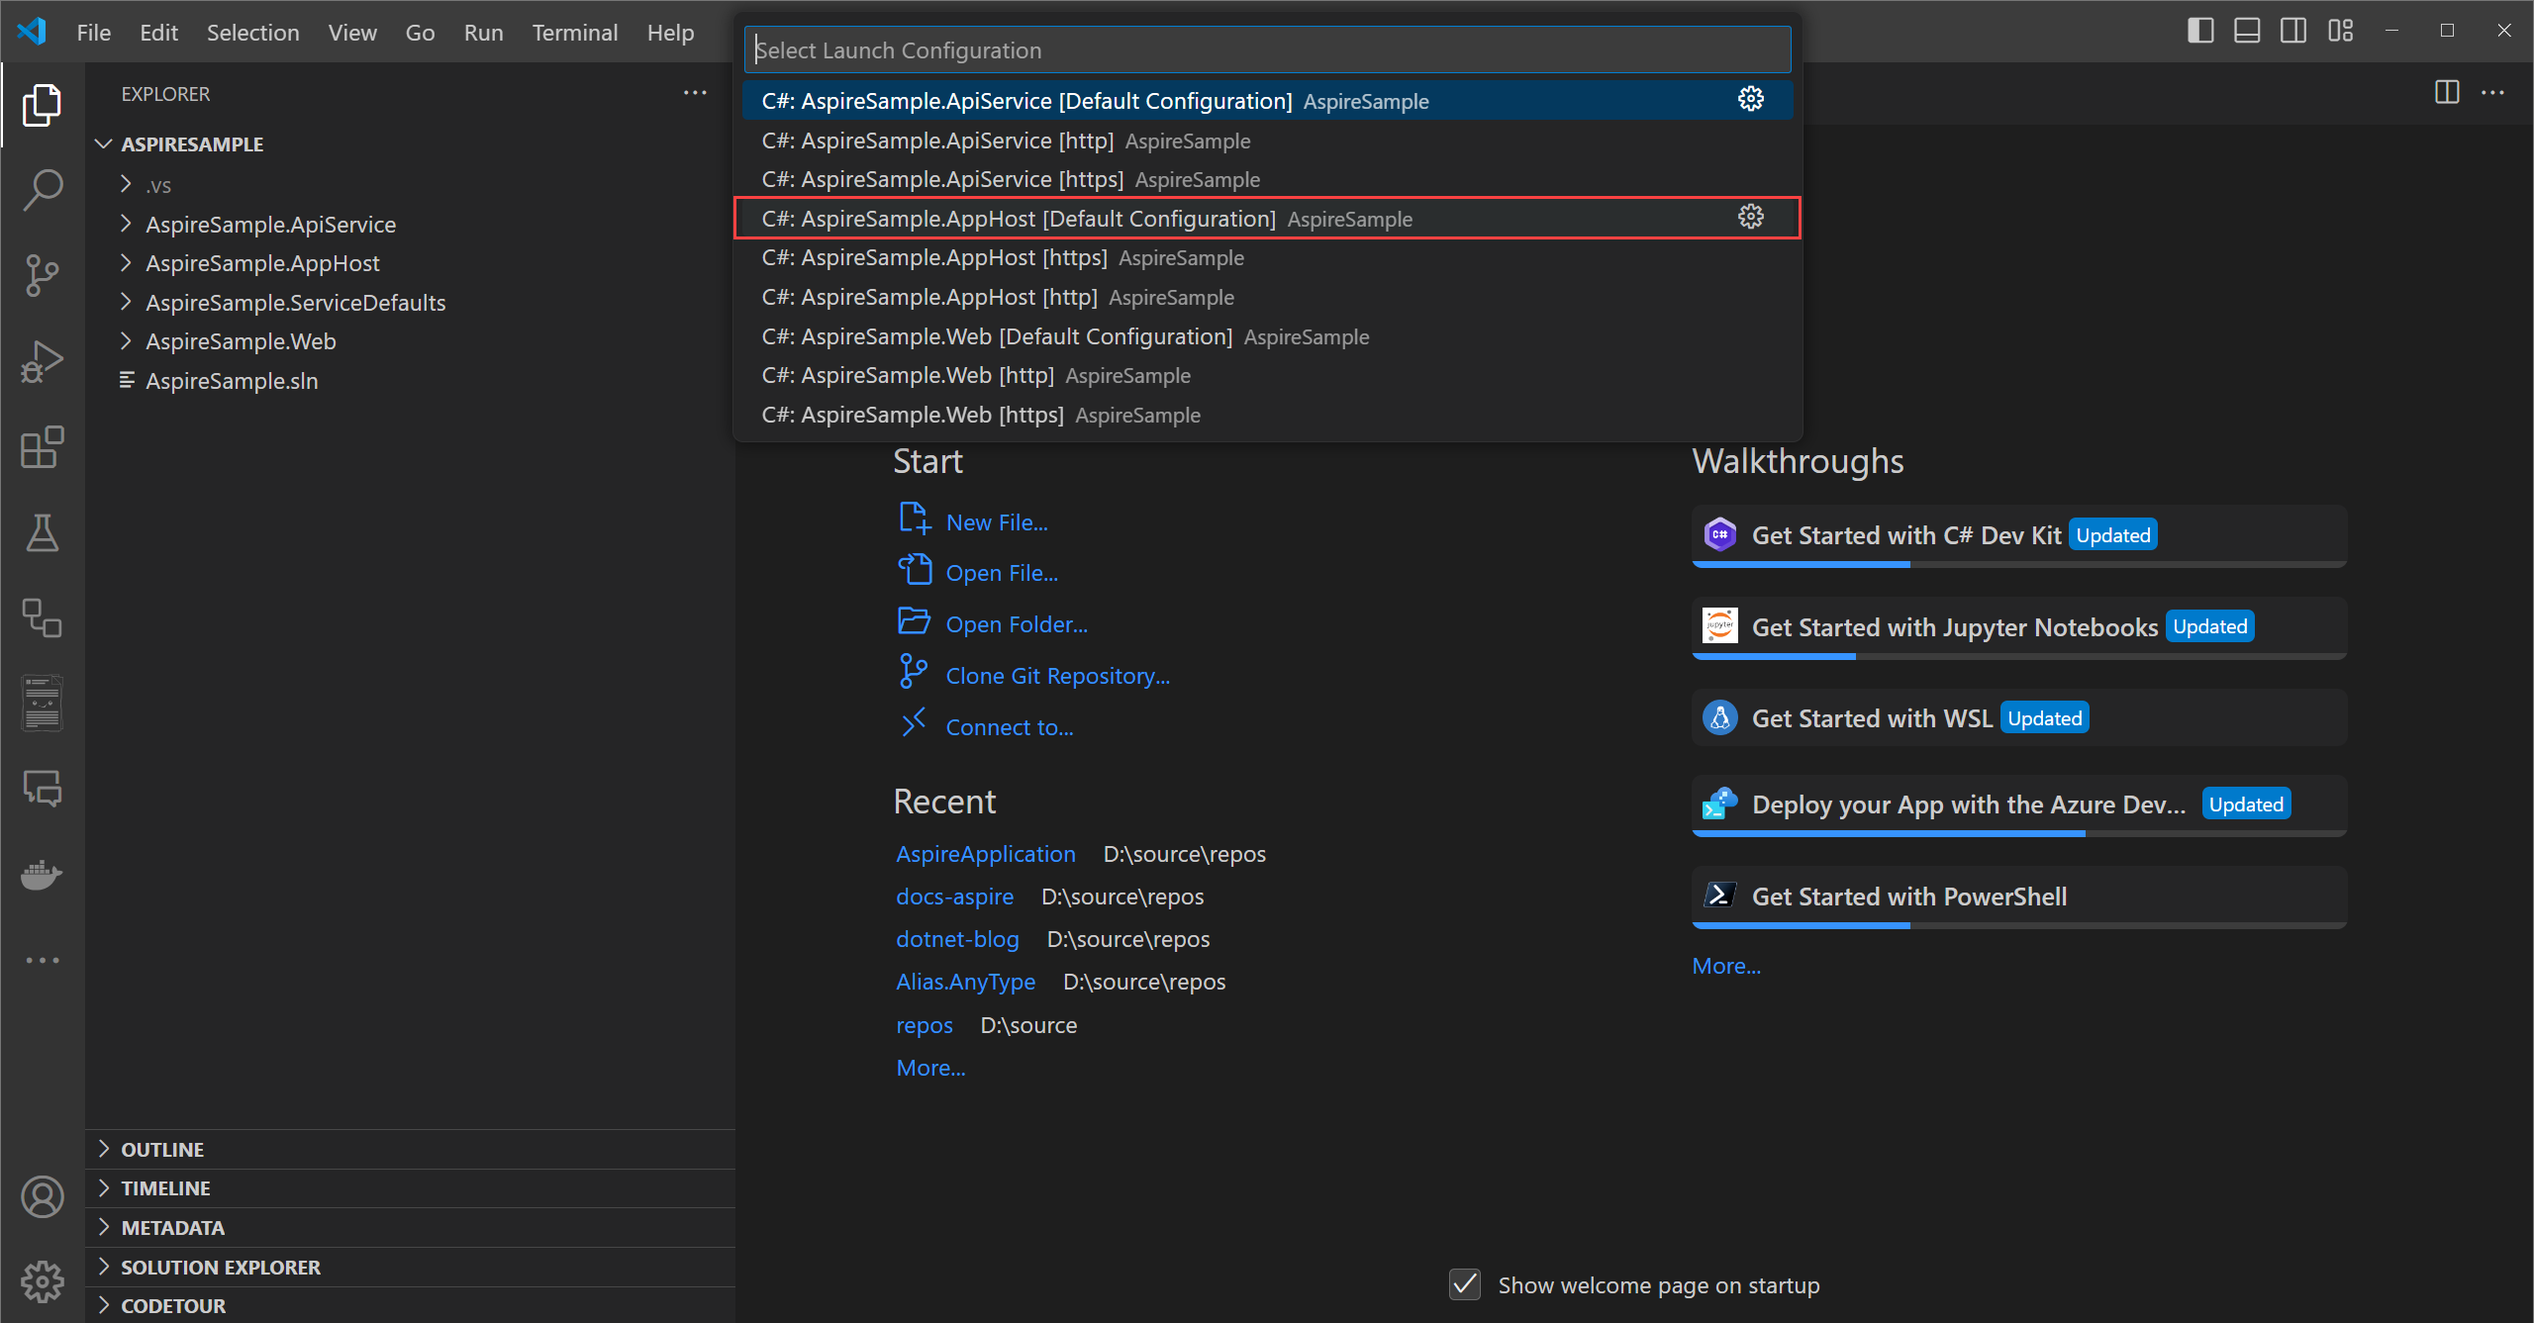
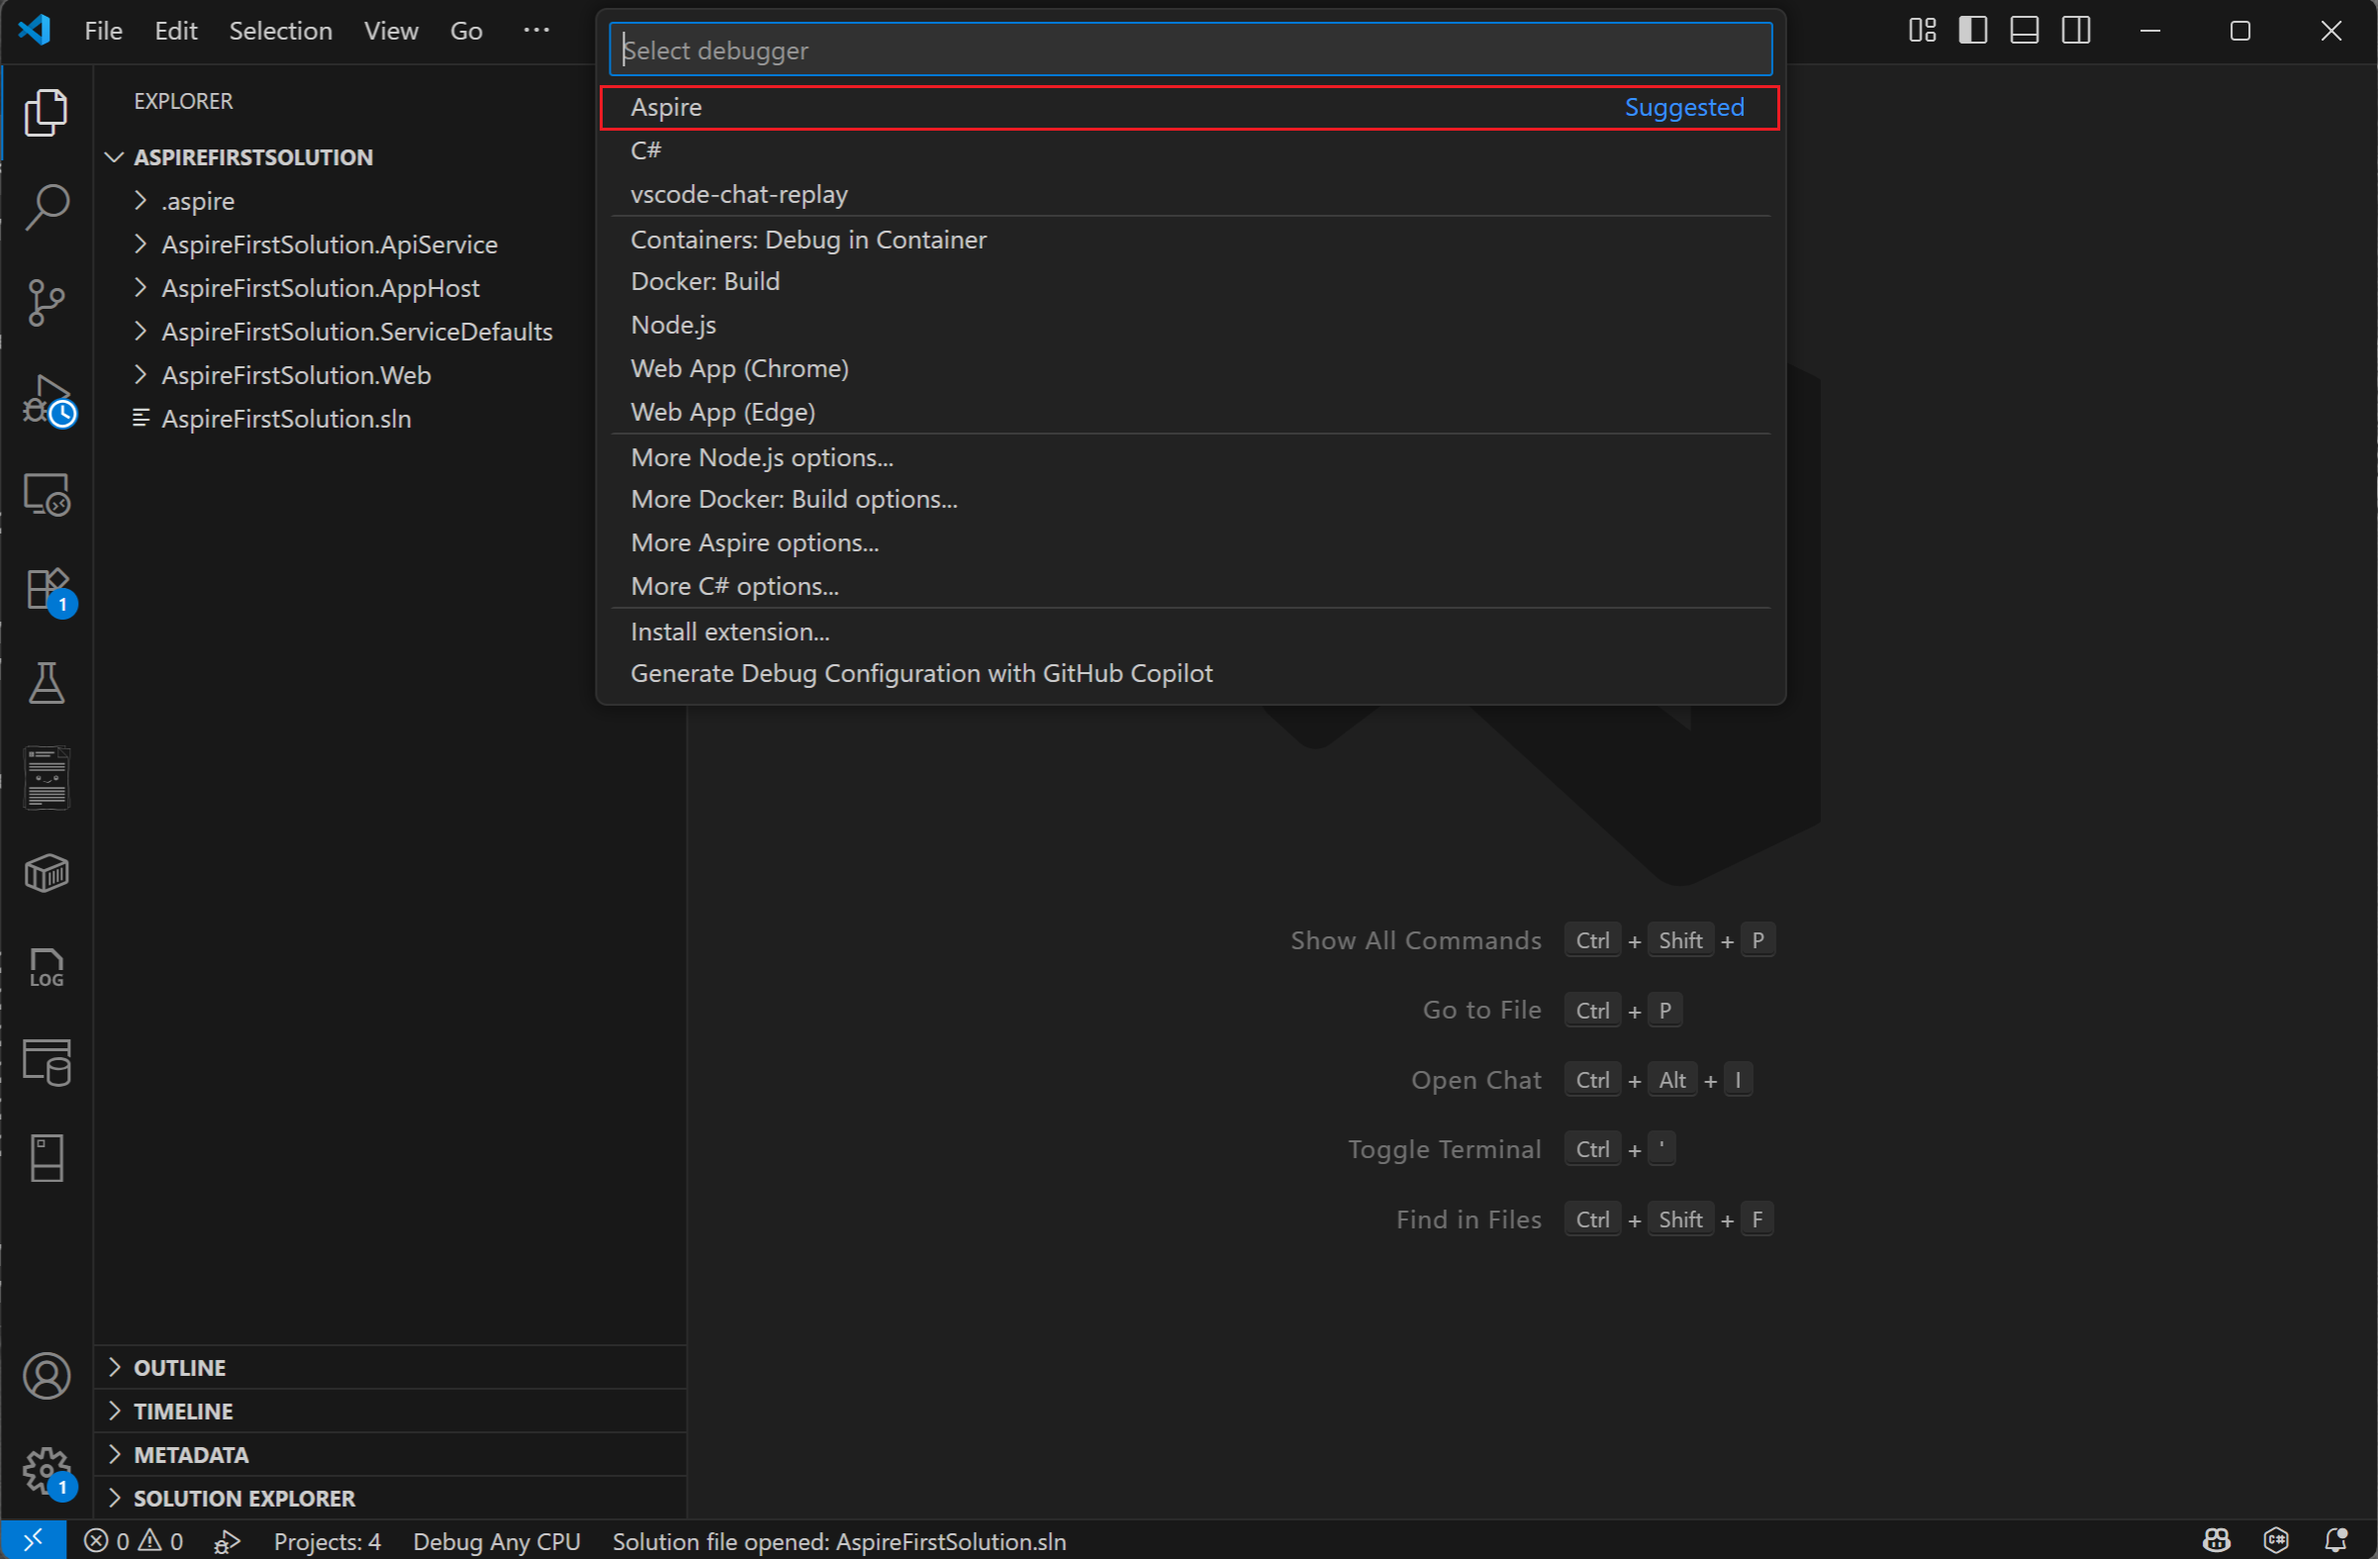
Completed VS Code revisions.

diff --git a/docs/get-started/build-your-first-aspire-app.md b/docs/get-started/build-your-first-aspire-app.md
@@ -54,6 +54,9 @@ The sample app includes a frontend Blazor app that communicates with a Minimal A
 - Weather data is retrieved from the API project using service discovery and displayed on the weather page.
 - Subsequent requests are handled via the output caching configured by the Aspire Redis integration.
 
+> [!TIP]
+> Make sure that your chosen container runtime, such as Docker Desktop or Podman, is running to host containers.
+
 :::zone pivot="aspire-cli"
 
 1. In the command prompt, navigate to the folder where you created the solution. It will be a subdirectory of the location where you ran the `aspire new` command.
@@ -72,19 +75,13 @@ The sample app includes a frontend Blazor app that communicates with a Minimal A
 :::zone-end
 :::zone pivot="vscode"
 
-In Visual Studio Code, press <kbd>F5</kbd> to launch the app. You're prompted to select which language, and C# is suggested. Select **C#** and then select the **AspireSample.AppHost** project with the **Default Configuration**:
+In Visual Studio Code, press <kbd>F5</kbd> to launch the app. You're prompted to select a debugger, and **Aspire** is suggested. Select **Aspire**:
 
-:::image type="content" loc-scope="vs-code" source="media/vscode-run.png" lightbox="media/vscode-run.png" alt-text="A screenshot of the Visual Studio Code launch configuration for the AspireSample.AppHost project.":::
+:::image type="content" loc-scope="vs-code" source="media/vscode-run.png" lightbox="media/vscode-run.png" alt-text="A screenshot of the Visual Studio Code launch configuration for the AspireFirstSolution.AppHost project.":::
 
-If this is the first time you're running Aspire, or it's a new machine with a new .NET installation, you're prompted to install a self-signed localhost certificate—and the project will fail to launch:
+Visual Studio Code opens a new debug console and runs the Aspire CLI to start your app. All projects are compiled, containers are deployed and information about the app is displayed. In the **Launch Aspire Dashboard** dialog, to view the dashboard, select **Open local URL**:
 
-:::image type="content" loc-scope="vs-code" source="media/vscode-run-accept-cert.png" lightbox="media/vscode-run-accept-cert.png" alt-text="A screenshot of the Visual Studio Code breaking on an exception and prompting to create a trusted self-signed certificate.":::
-
-Select **Yes**, and you see an informational message indicating that the **Self-signed certificate successfully created**:
-
-:::image type="content" loc-scope="vs-code" source="media/vscode-run-cert-created.png" lightbox="media/vscode-run-cert-created.png" alt-text="A screenshot of the Visual Studio Code success message for creating a self-signed certificate.":::
-
-If you're still having an issue, close all browser windows and try again. For more information, see [Troubleshoot untrusted localhost certificate in Aspire](../troubleshooting/untrusted-localhost-certificate.md).
+:::image type="content" loc-scope="vs-code" source="media/vscode-launch-dashboard.png" lightbox="media/vscode-launch-dashboard.png" alt-text="A screenshot of Visual Studio Code running the new Aspire app.":::
 
 > [!TIP]
 > If you're on MacOS and using Safari, when your browser opens if the page is blank, you might need to manually refresh the page.
